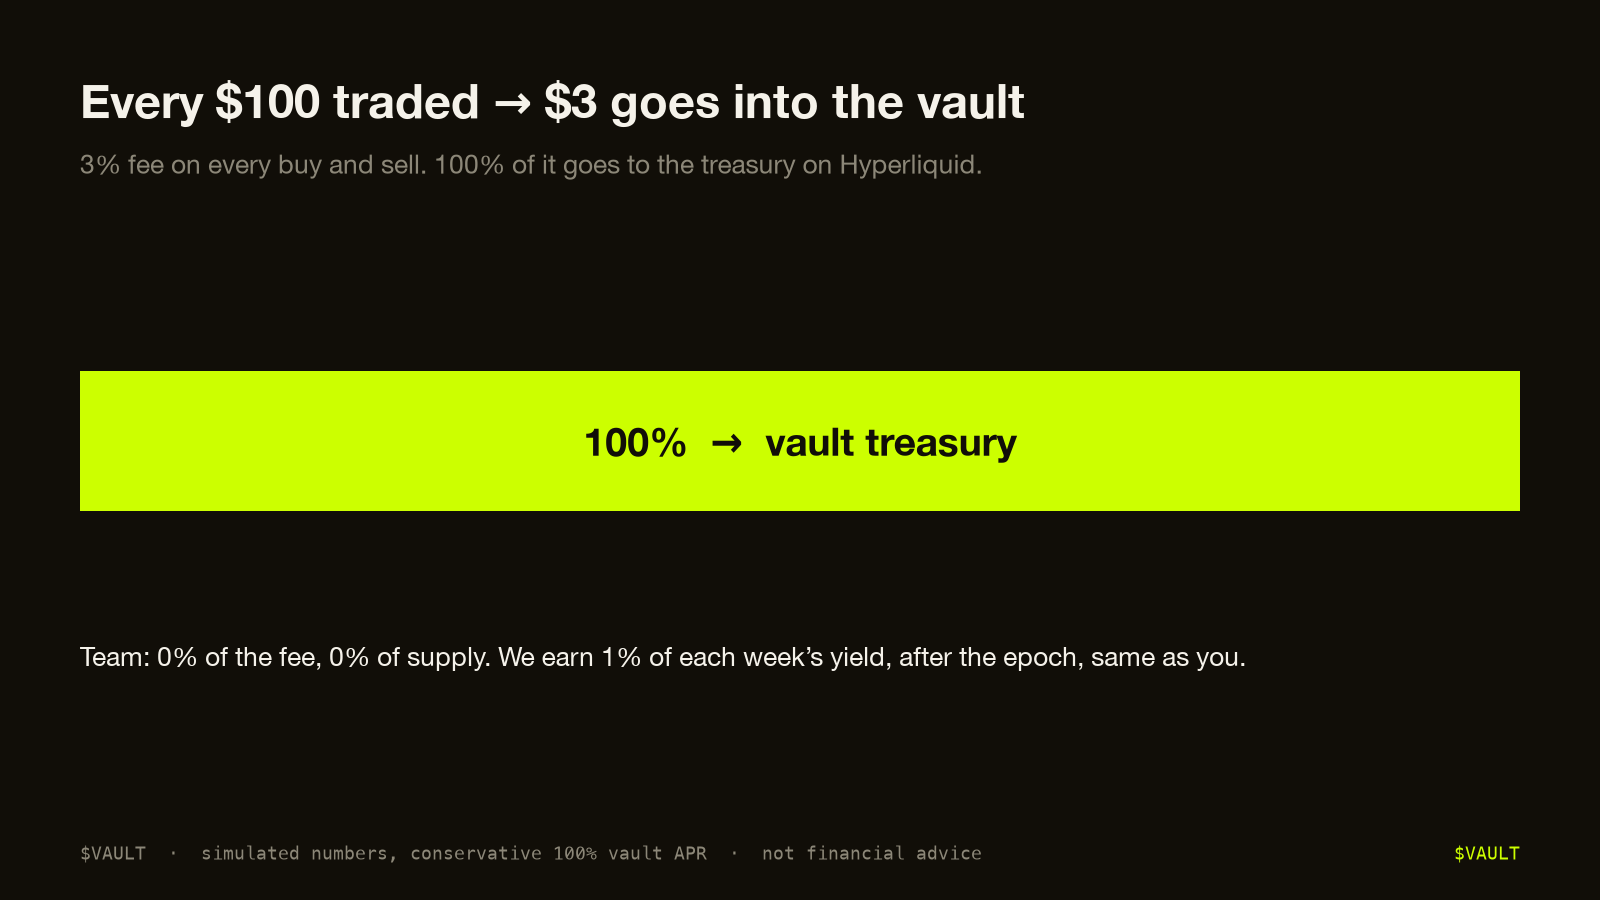
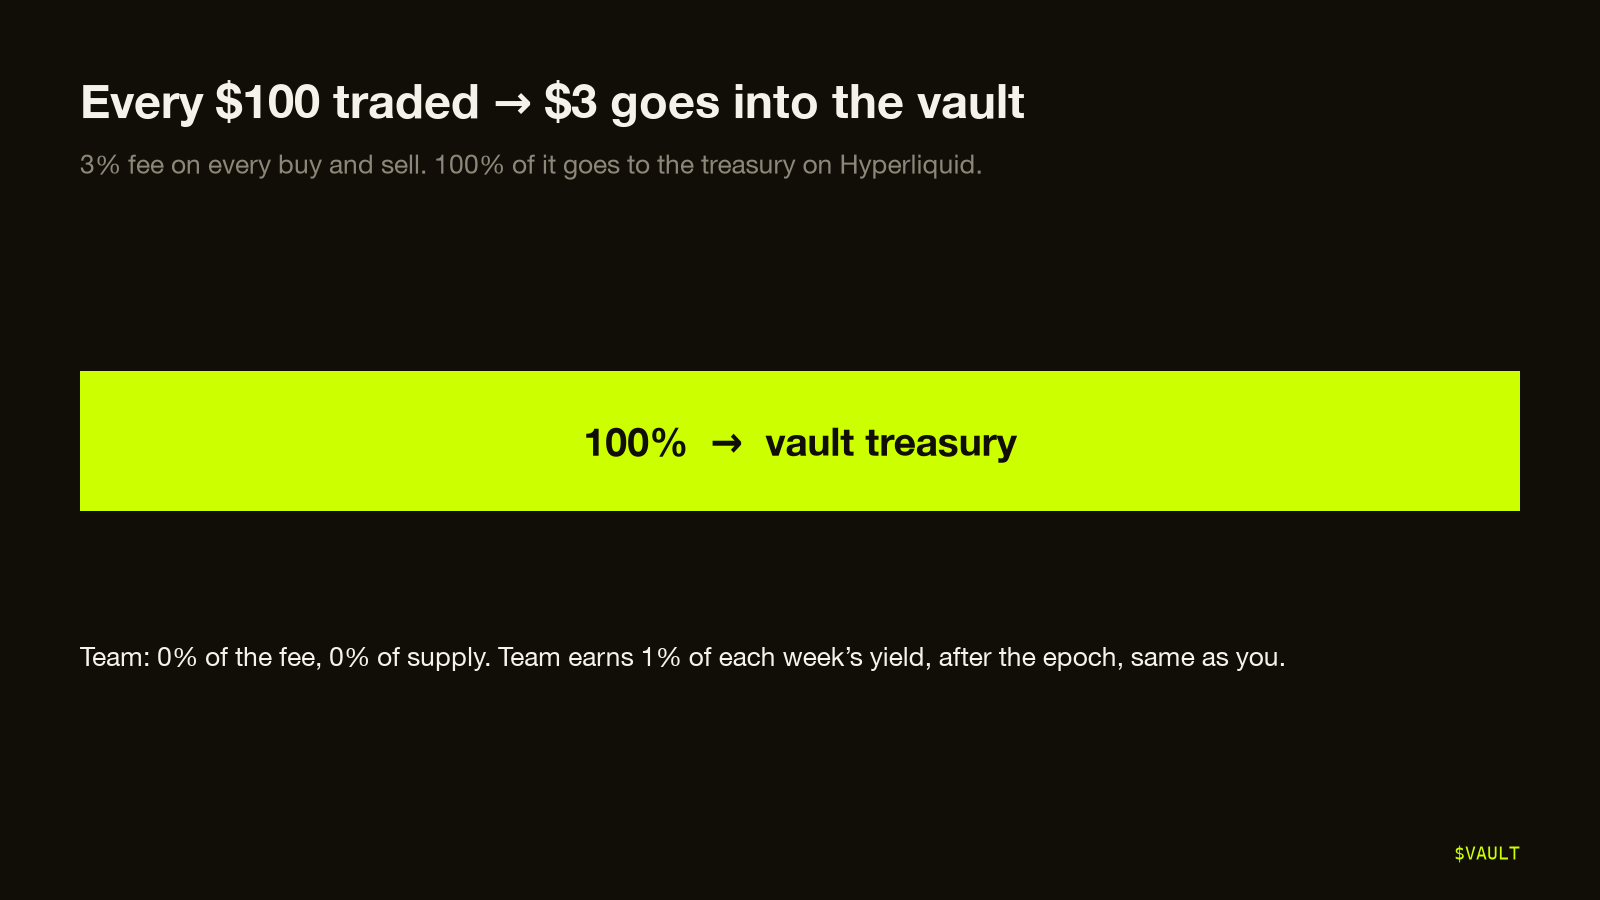
Charts: drop disclaimer on fee split, add no-staking visual

diff --git a/charts/gen_charts.py b/charts/gen_charts.py
@@ -16,11 +16,12 @@ plt.rcParams.update({"font.family": SANS, "text.color": TEXT, "axes.edgecolor": 
                      "figure.facecolor": BG, "axes.facecolor": BG, "savefig.facecolor": BG})
 FOOT = r"\$VAULT  ·  simulated numbers, conservative 100% vault APR  ·  not financial advice"
 
-def fig(title, sub=None):
+def fig(title, sub=None, foot=True):
     f = plt.figure(figsize=(16, 9), dpi=100)
     f.text(0.05, 0.92, title, fontsize=34, fontweight="bold", va="top")
     if sub: f.text(0.05, 0.835, sub, fontsize=19, color=MUTED, va="top")
-    f.text(0.05, 0.045, FOOT, fontsize=13, color=MUTED, family=MONO); f.text(0.95, 0.045, r"\$VAULT", fontsize=13, color=LIME, family=MONO, ha="right")
+    if foot: f.text(0.05, 0.045, FOOT, fontsize=13, color=MUTED, family=MONO)
+    f.text(0.95, 0.045, r"\$VAULT", fontsize=13, color=LIME, family=MONO, ha="right")
     return f
 def clean(ax, left=False, bottom=True):
     for s in ax.spines.values(): s.set_visible(False)
@@ -32,11 +33,11 @@ def lab(ax, x, y, t, size=22, color=TEXT): ax.text(x, y, t, ha="center", va="bot
 def mult(d): return 0 if d <= 0 else round(d * 2 / 7, 2) if d <= 7 else min(4, round(2 + (d - 7) * 0.1, 2))
 
 # 01 fee: 100% to vault
-f = fig(r"Every \$100 traded → \$3 goes into the vault", "3% fee on every buy and sell. 100% of it goes to the treasury on Hyperliquid.")
+f = fig(r"Every \$100 traded → \$3 goes into the vault", "3% fee on every buy and sell. 100% of it goes to the treasury on Hyperliquid.", foot=False)
 ax = f.add_axes([0.05, 0.34, 0.9, 0.34]); clean(ax, bottom=False)
 ax.barh([0], [100], color=LIME, height=0.55); ax.set_xlim(0, 100); ax.set_ylim(-0.6, 0.6)
 ax.text(50, 0, "100%  →  vault treasury", ha="center", va="center", fontsize=28, fontweight="bold", color=BG)
-f.text(0.05, 0.26, "Team: 0% of the fee, 0% of supply. We earn 1% of each week’s yield, after the epoch, same as you.", fontsize=19)
+f.text(0.05, 0.26, "Team: 0% of the fee, 0% of supply. Team earns 1% of each week’s yield, after the epoch, same as you.", fontsize=19)
 save(f, "01_fee_split.png")
 
 # 02 flow
@@ -140,3 +141,18 @@ for i in range(8):
 ax.set_ylim(0, 4.1); ax.legend(loc="upper left", fontsize=16, frameon=False, labelcolor=TEXT)
 save(f, "10_treasury_vs_pool.png")
 print("pools", [round(p) for p in pools], "per1M", round(pool8*1e6/elig))
+
+# 11 no staking / no claiming
+f = fig("No staking. No claiming. No “connect wallet to unlock rewards”.", None, foot=False)
+ax = f.add_axes([0.05, 0.14, 0.9, 0.66]); ax.set_xlim(0, 100); ax.set_ylim(0, 10); ax.axis("off")
+for i, t in enumerate(["Staking", "Claiming", "Connect wallet to unlock"]):
+    y = 8.2 - i * 2.6
+    ax.add_patch(FancyBboxPatch((2, y - 0.9), 40, 1.8, boxstyle="round,pad=0,rounding_size=0.9", fc=PANEL, ec=LINE, lw=1.5))
+    ax.text(22, y, t, ha="center", va="center", fontsize=24, color=MUTED)
+    ax.plot([5, 39], [y, y], color=RED, lw=4, solid_capstyle="round")
+ax.add_patch(FancyBboxPatch((50, 1.2), 48, 8.4, boxstyle="round,pad=0,rounding_size=1.2", fc=LIME, ec="none"))
+ax.text(74, 6.9, "You hold.", ha="center", va="center", fontsize=52, fontweight="bold", color=BG)
+ax.text(74, 4.4, "Money shows up.", ha="center", va="center", fontsize=40, fontweight="bold", color=BG)
+ax.text(74, 2.4, "$VAULT in your wallet  ·  USDC in your wallet", ha="center", va="center", fontsize=16, color="#3d4a00", family=MONO)
+ax.annotate("", xy=(49, 5.4), xytext=(43.5, 5.4), arrowprops=dict(arrowstyle="-|>", color=LIME, lw=3, mutation_scale=28))
+save(f, "11_no_staking.png")

diff --git a/twitter-posts.md b/twitter-posts.md
@@ -59,6 +59,7 @@ That's it. That's the post.
 No staking. No claiming. No "connect wallet to unlock rewards".
 
 You hold. Money shows up. Different money than the one you hold.
+`[chart: 11_no_staking]`
 
 **4/**
 The only thing you'll ever need to do:
@@ -342,5 +343,6 @@ $VAULT on Robinhood Chain. 100% of the 3% trade fee is deposited into the top-AP
 | 08_multiplier_curve | T4/2, H | Multiplier by days held, ×2 at 7, ×4 at 27 |
 | 09_days_held_payout | T4/3, D | 1M tokens, payout by days held |
 | 10_treasury_vs_pool | T4/5 | Principal stays, yield paid weekly |
+| 11_no_staking | T0/3 | No staking / claiming, you hold, USDC shows up |
 
 Regenerate after changing numbers: `python3 charts/gen_charts.py`
